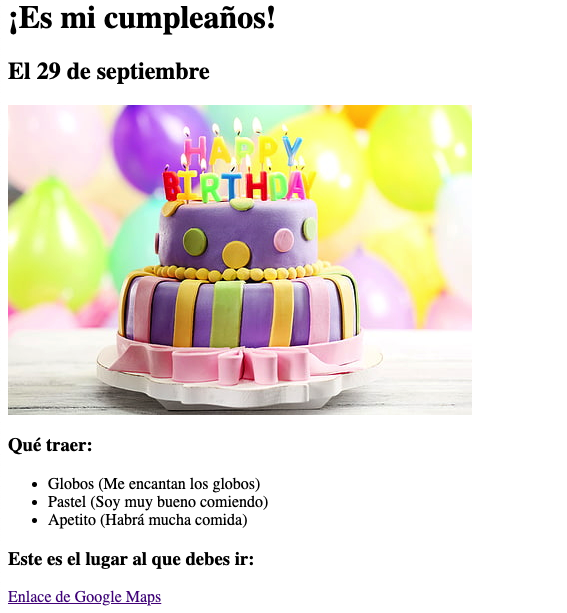
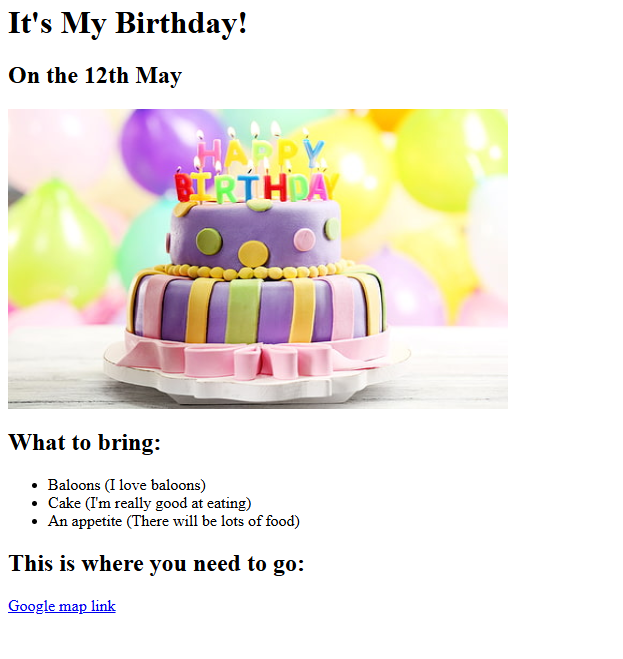
Ejercicio terminado

diff --git a/5 Ejercicio HTML Boiler Plate Portafolio/index.html b/5 Ejercicio HTML Boiler Plate Portafolio/index.html
@@ -1,15 +1,40 @@
-<!-- TODO 1: Crear la estructura básica de HTML -->
-
-<!-- TODO 2: Añadir el HTML de tus proyectos anteriores en la carpeta public -->
-
-<!-- TODO 3: Tomar capturas de pantalla de las vistas previas de tus proyectos y añadir las imágenes a la carpeta images -->
-
-<!-- TODO 4: Añadir títulos/subtítulos, etc. -->
-
-<!-- TODO 5: Añadir un enlace a las páginas de los proyectos -->
-
-<!-- TODO 6: Añadir imágenes para mostrar las vistas previas de los proyectos
-PISTA para TODO 6: Puedes usar el atributo height configurado a 200 para hacer la imagen más pequeña:
-https://developer.mozilla.org/en-US/docs/Web/HTML/Element/img#attr-height -->
-
-<!-- TODO 7: Añadir los enlaces a las páginas de Contacto y Sobre Mí -->
+<!DOCTYPE html>
+<html lang="en">
+  <head>
+    <meta charset="UTF-8" />
+    <meta name="viewport" content="width=device-width, initial-scale=1.0" />
+    <title>My portfolio</title>
+    <link
+      href="https://cdn.jsdelivr.net/npm/bootstrap@5.3.3/dist/css/bootstrap.min.css"
+      rel="stylesheet"
+      integrity="sha384-QWTKZyjpPEjISv5WaRU9OFeRpok6YctnYmDr5pNlyT2bRjXh0JMhjY6hW+ALEwIH"
+      crossorigin="anonymous"
+    />
+    <script
+      src="https://cdn.jsdelivr.net/npm/bootstrap@5.3.3/dist/js/bootstrap.bundle.min.js"
+      integrity="sha384-YvpcrYf0tY3lHB60NNkmXc5s9fDVZLESaAA55NDzOxhy9GkcIdslK1eN7N6jIeHz"
+      crossorigin="anonymous"
+    ></script>
+  </head>
+  <body>
+    <h1>Portfolio Jeremy Marin</h1>
+    <h2>I'm a Web Developer</h2>
+    <hr />
+    <h1>
+      <a href="./public/Movie-ranking.html">Movie clasification project</a>
+    </h1>
+    <img src="./assets/images/movie-ranking.png" alt="Movies Ranking" />
+    <h1>
+      <a href="./public/Birthday-invite.html">Birthday invitation project</a>
+    </h1>
+    <img
+      src="./assets/images/birthday-invite.png"
+      alt="Birthday cake invitation"
+    />
+    <hr />
+    <h2>
+      <a href="./public/about.html">About me</a> |
+      <a href="./public/contact.html">Contact</a>
+    </h2>
+  </body>
+</html>

diff --git a/5 Ejercicio HTML Boiler Plate Portafolio/public/birthday-invite.html b/5 Ejercicio HTML Boiler Plate Portafolio/public/birthday-invite.html
@@ -1,21 +1,29 @@
-<!-- Esta es una posible solución -->
-<h1>¡Es mi cumpleaños!</h1>
-<h2>El 29 de septiembre</h2>
+<html>
+  <head>
+    <title>My Birthday</title>
+  </head>
+  <body>
+    <h1>It's My Birthday!<h1>
+      <h2>On the 12th May</h2>
+        <img
+            src="https://raw.githubusercontent.com/appbrewery/webdev/main/birthday-cake3.4.jpeg"
+            alt="Example cake"
+            width="500"
+            height="300"/>
+    <h2>What to bring:</h2>
+    <ul>
+        <li>Baloons (I love baloons)</li>
+        <li>Cake (I'm really good at eating)</li>
+        <li>An appetite (There will be lots of food)</li>
+    </ul>
+    <h2>This is where you need to go:</h2>
+    <a href="https://www.google.com/maps/@35.7040744,139.5577317,3a,75y,289.6h,87.01t,0.72r/data=!3m6!1e1!3m4!1sgT28ssf0BB2LxZ63JNcL1w!2e0!7i13312!8i6656" target="_blank">Google map link</a>
+  </body>
+</html>
 
-<img
-  src="https://raw.githubusercontent.com/appbrewery/webdev/main/birthday-cake3.4.jpeg"
-  alt="pastel de cumpleaños morado con velas"
-/>
 
-<h3>Qué traer:</h3>
-<ul>
-  <li>Globos (Me encantan los globos)</li>
-  <li>Pastel (Soy muy bueno comiendo)</li>
-  <li>Apetito (Habrá mucha comida)</li>
-</ul>
+<!-- Example image URL -->
+<!--https://raw.githubusercontent.com/appbrewery/webdev/main/birthday-cake3.4.jpeg-->
 
-<h3>Este es el lugar al que debes ir:</h3>
-<a
-  href="https://www.google.com/maps/@35.7040744,139.5577317,3a,75y,289.6h,87.01t,0.72r/data=!3m6!1e1!3m4!1sgT28ssf0BB2LxZ63JNcL1w!2e0!7i13312!8i6656"
-  >Enlace de Google Maps</a
->
+<!-- Example Google Maps Link -->
+<!--https://www.google.com/maps/@35.7040744,139.5577317,3a,75y,289.6h,87.01t,0.72r/data=!3m6!1e1!3m4!1sgT28ssf0BB2LxZ63JNcL1w!2e0!7i13312!8i6656-->

diff --git a/5 Ejercicio HTML Boiler Plate Portafolio/public/movie-ranking.html b/5 Ejercicio HTML Boiler Plate Portafolio/public/movie-ranking.html
@@ -1,9 +1,16 @@
-<h1>Las Mejores Películas Según Andres</h1>
-<h2>Mis 3 películas favoritas de todos los tiempos.</h2>
-<hr />
-<h3>El Silencio de los Inocentes</h3>
-<p>Un thriller psicológico que te mantiene al borde del asiento.</p>
-<h3>Seven</h3>
-<p>Un oscuro y fascinante thriller sobre la búsqueda de un asesino en serie.</p>
-<h3>El Club de la Pelea</h3>
-<p>Un thriller psicológico con giros inesperados y una narrativa única.</p>
+<html>
+  <head>
+    <title>Best Movies</title>
+  </head>
+  <body>
+    <h1>The Best Movies According to me</h1>
+    <h2>My top 3 movies of all time</h2>
+    <hr />
+    <h3>Perfect Blue</h3>
+    <p>This is my favorite anime movie</p>
+    <h3>Interestelar</h3>
+    <p>My favorite sci-fi movie</p>
+    <h3>Knives Out</h3>
+    <p>Its a great movie with a lot of mistery</p>
+  </body>
+</html>

diff --git a/5 Ejercicio HTML Boiler Plate Portafolio/public/about.html b/5 Ejercicio HTML Boiler Plate Portafolio/public/about.html
@@ -1,14 +1,7 @@
-<h1>Sobre Mi</h1>
+<h1>About me</h1>
 <p>
-  Lorem ipsum dolor sit amet, consectetur adipiscing elit. Pellentesque sem
-  tellus, sagittis non odio nec, interdum elementum lacus. Ut ac justo eget
-  risus sollicitudin fringilla sed ut leo. Ut condimentum elit nec fermentum
-  lobortis. Quisque tincidunt quam nec tincidunt ullamcorper. Integer vitae
-  pretium justo. In placerat volutpat pellentesque. Etiam gravida quam vitae
-  odio pulvinar imperdiet. Vivamus venenatis gravida purus sit amet aliquet. Ut
-  in nibh sed quam laoreet lacinia. Cras cursus ut dui vitae posuere. Vivamus
-  volutpat urna vitae odio fringilla placerat. Nulla vel rhoncus sapien.
-  Phasellus at interdum enim.
+  My Name is Jeremy Marin, I'm 22 years old. I live in Quito-Ecuador and I love
+  sports and videogames.
 </p>
 
 <p>

diff --git a/5 Ejercicio HTML Boiler Plate Portafolio/public/contact.html b/5 Ejercicio HTML Boiler Plate Portafolio/public/contact.html
@@ -1,6 +1,6 @@
 <h1>Contacto</h1>
 <p>Tel: +123456789</p>
-<p>Email: me@gmail.com</p>
+<p>Email: jmarin@puce.edu.ec</p>
 <p>Address:</p>
 <p>
   12 de octubre<br />
